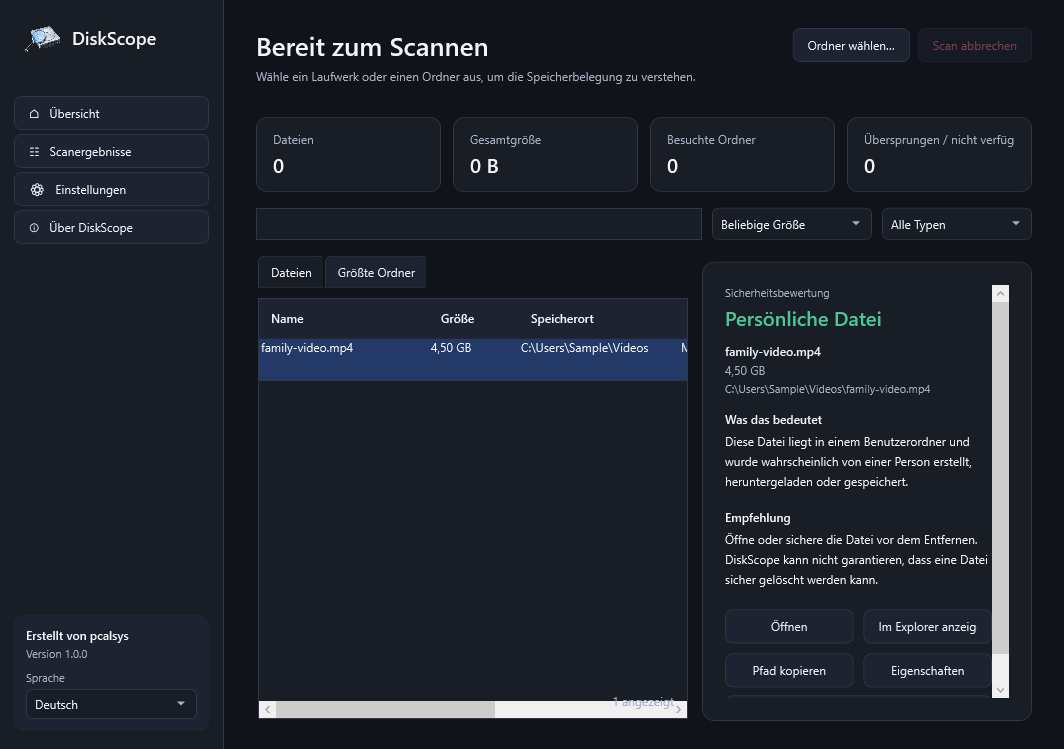
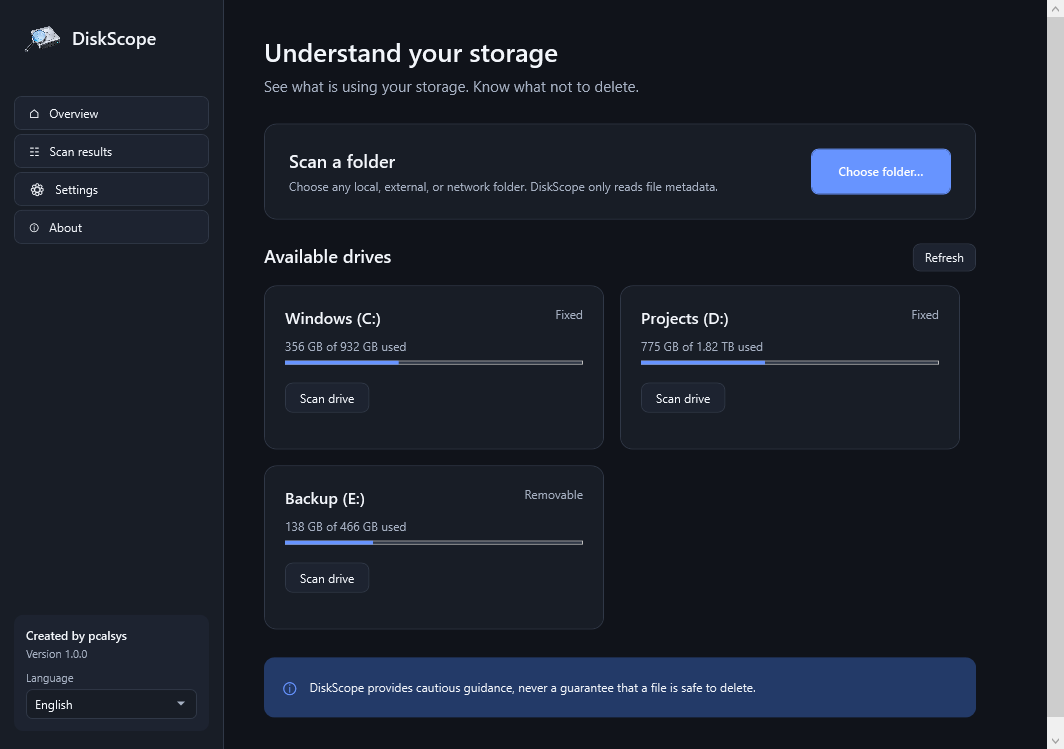
docs: show matching light and dark overviews

diff --git a/README.md b/README.md
@@ -33,9 +33,9 @@ Everything happens locally. DiskScope has no account, cloud service, telemetry, 
 
 ## Screenshots
 
-| Light overview (English) | Dark scan results (Deutsch) |
+| Light mode | Dark mode |
 |:--:|:--:|
-| ![DiskScope light overview](docs/assets/diskscope-overview-light.png) | ![DiskScope dark German scan results](docs/assets/diskscope-results-dark-de.png) |
+| ![DiskScope Overview in light mode](docs/assets/diskscope-overview-light.png) | ![DiskScope Overview in dark mode](docs/assets/diskscope-overview-dark.png) |
 
 All paths, files, drives, and sizes shown in these screenshots are synthetic.
 
